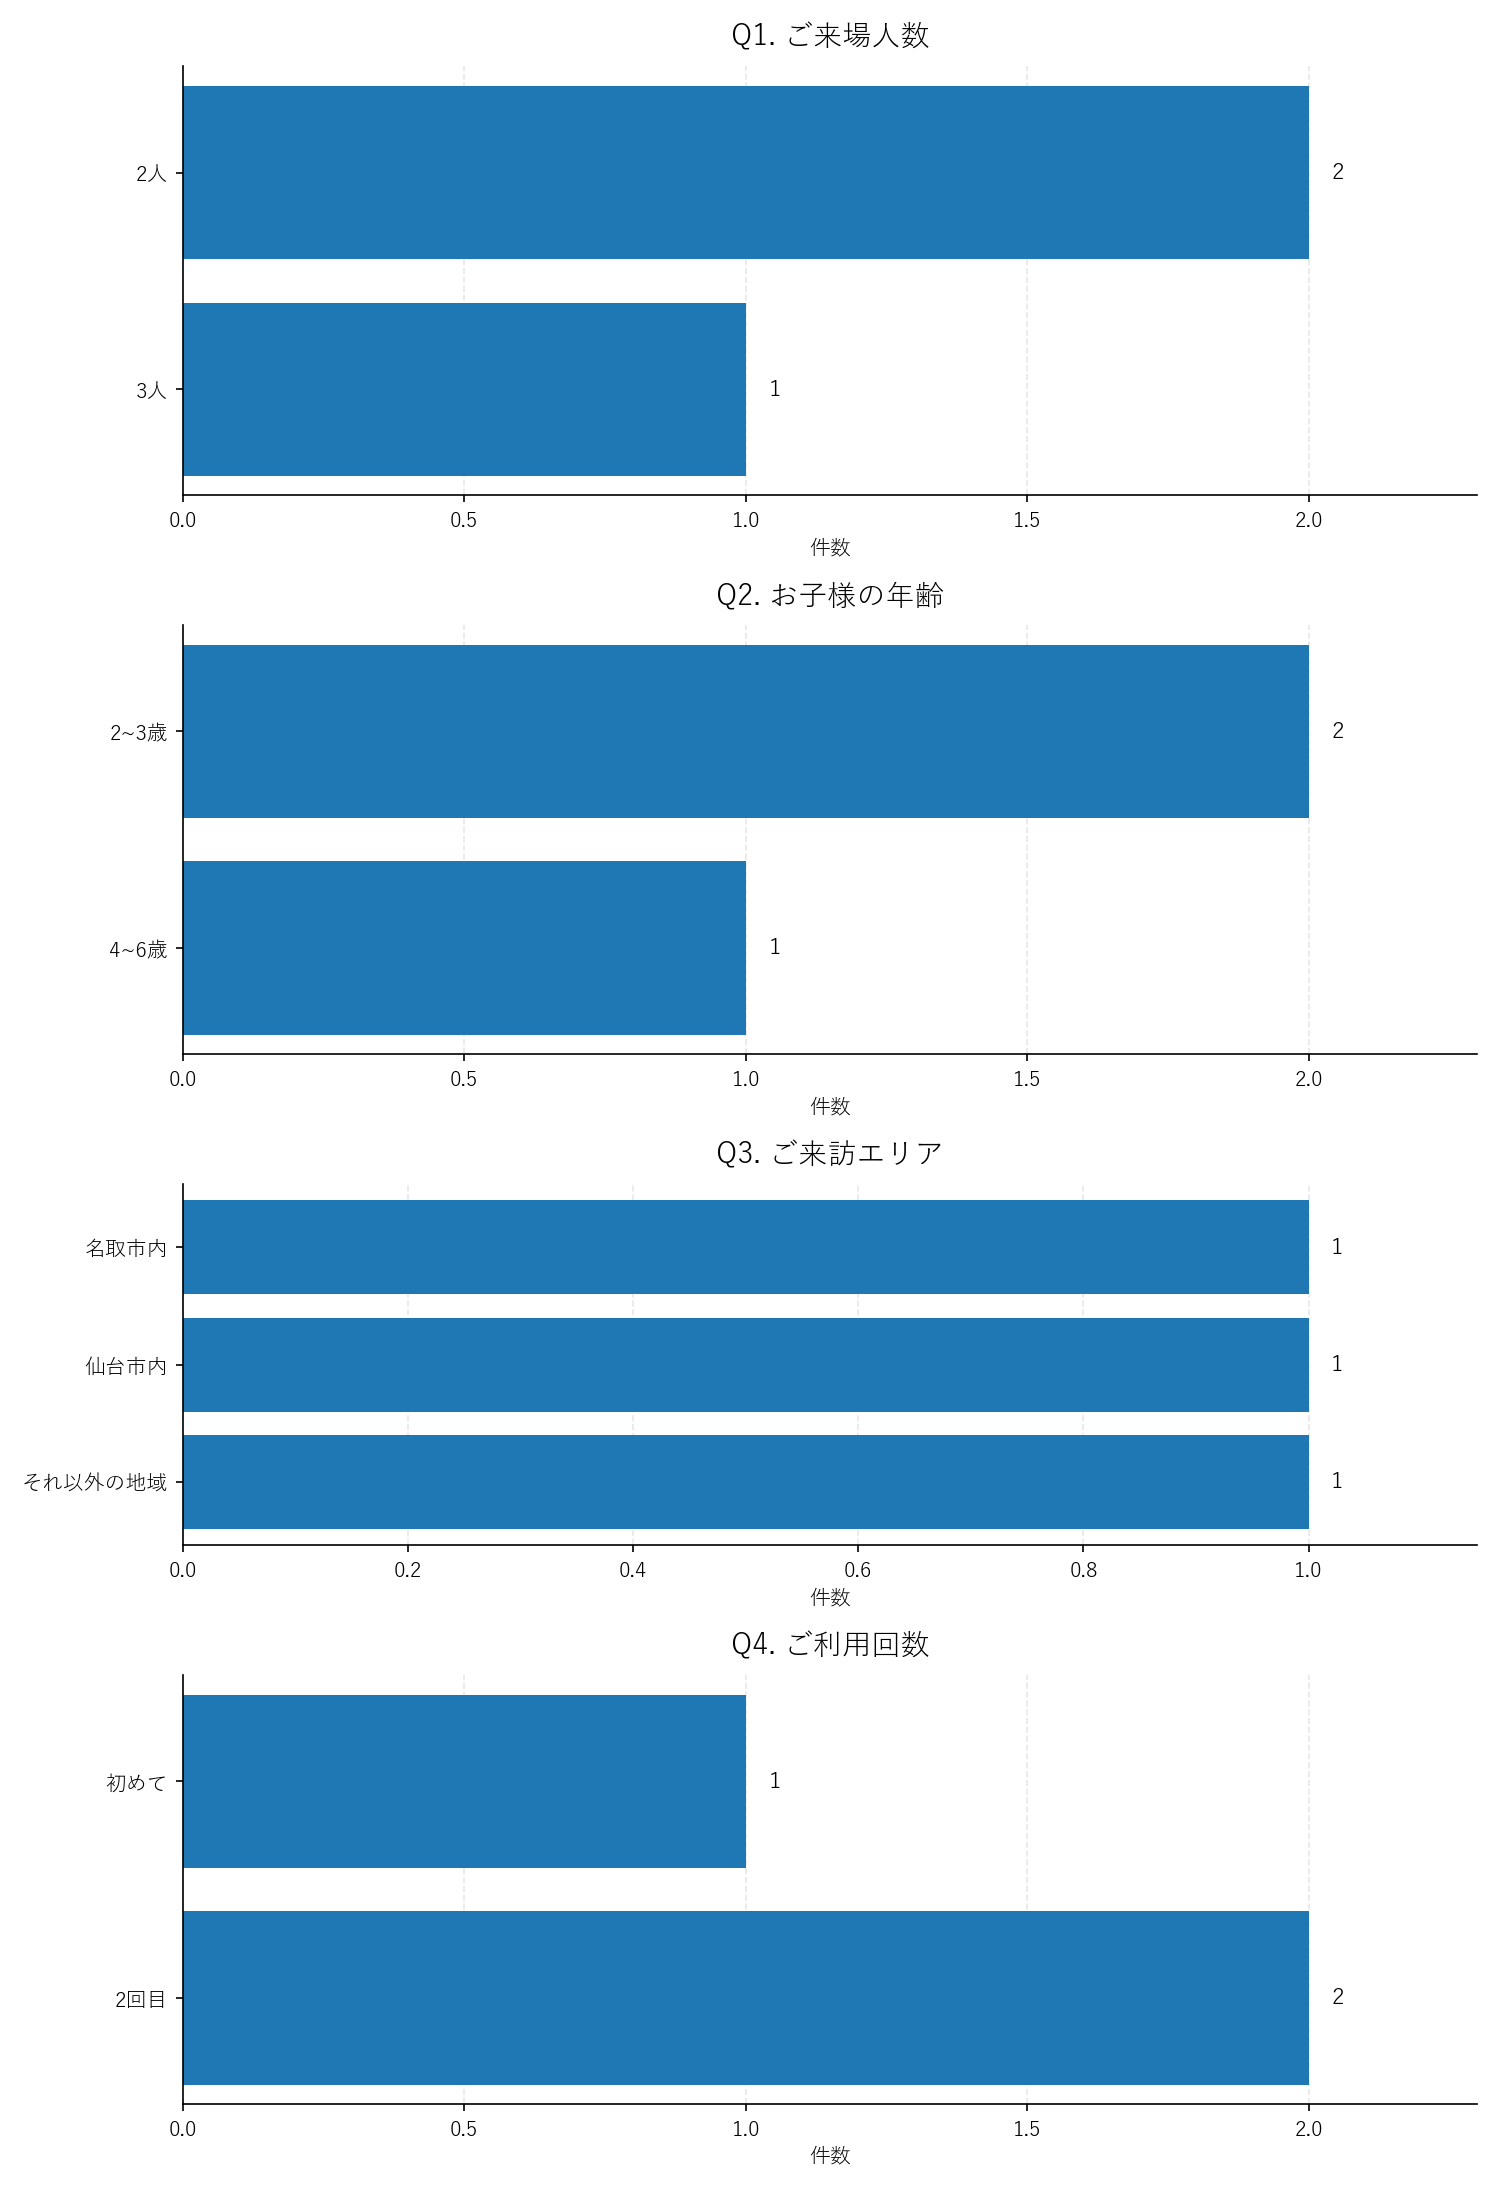
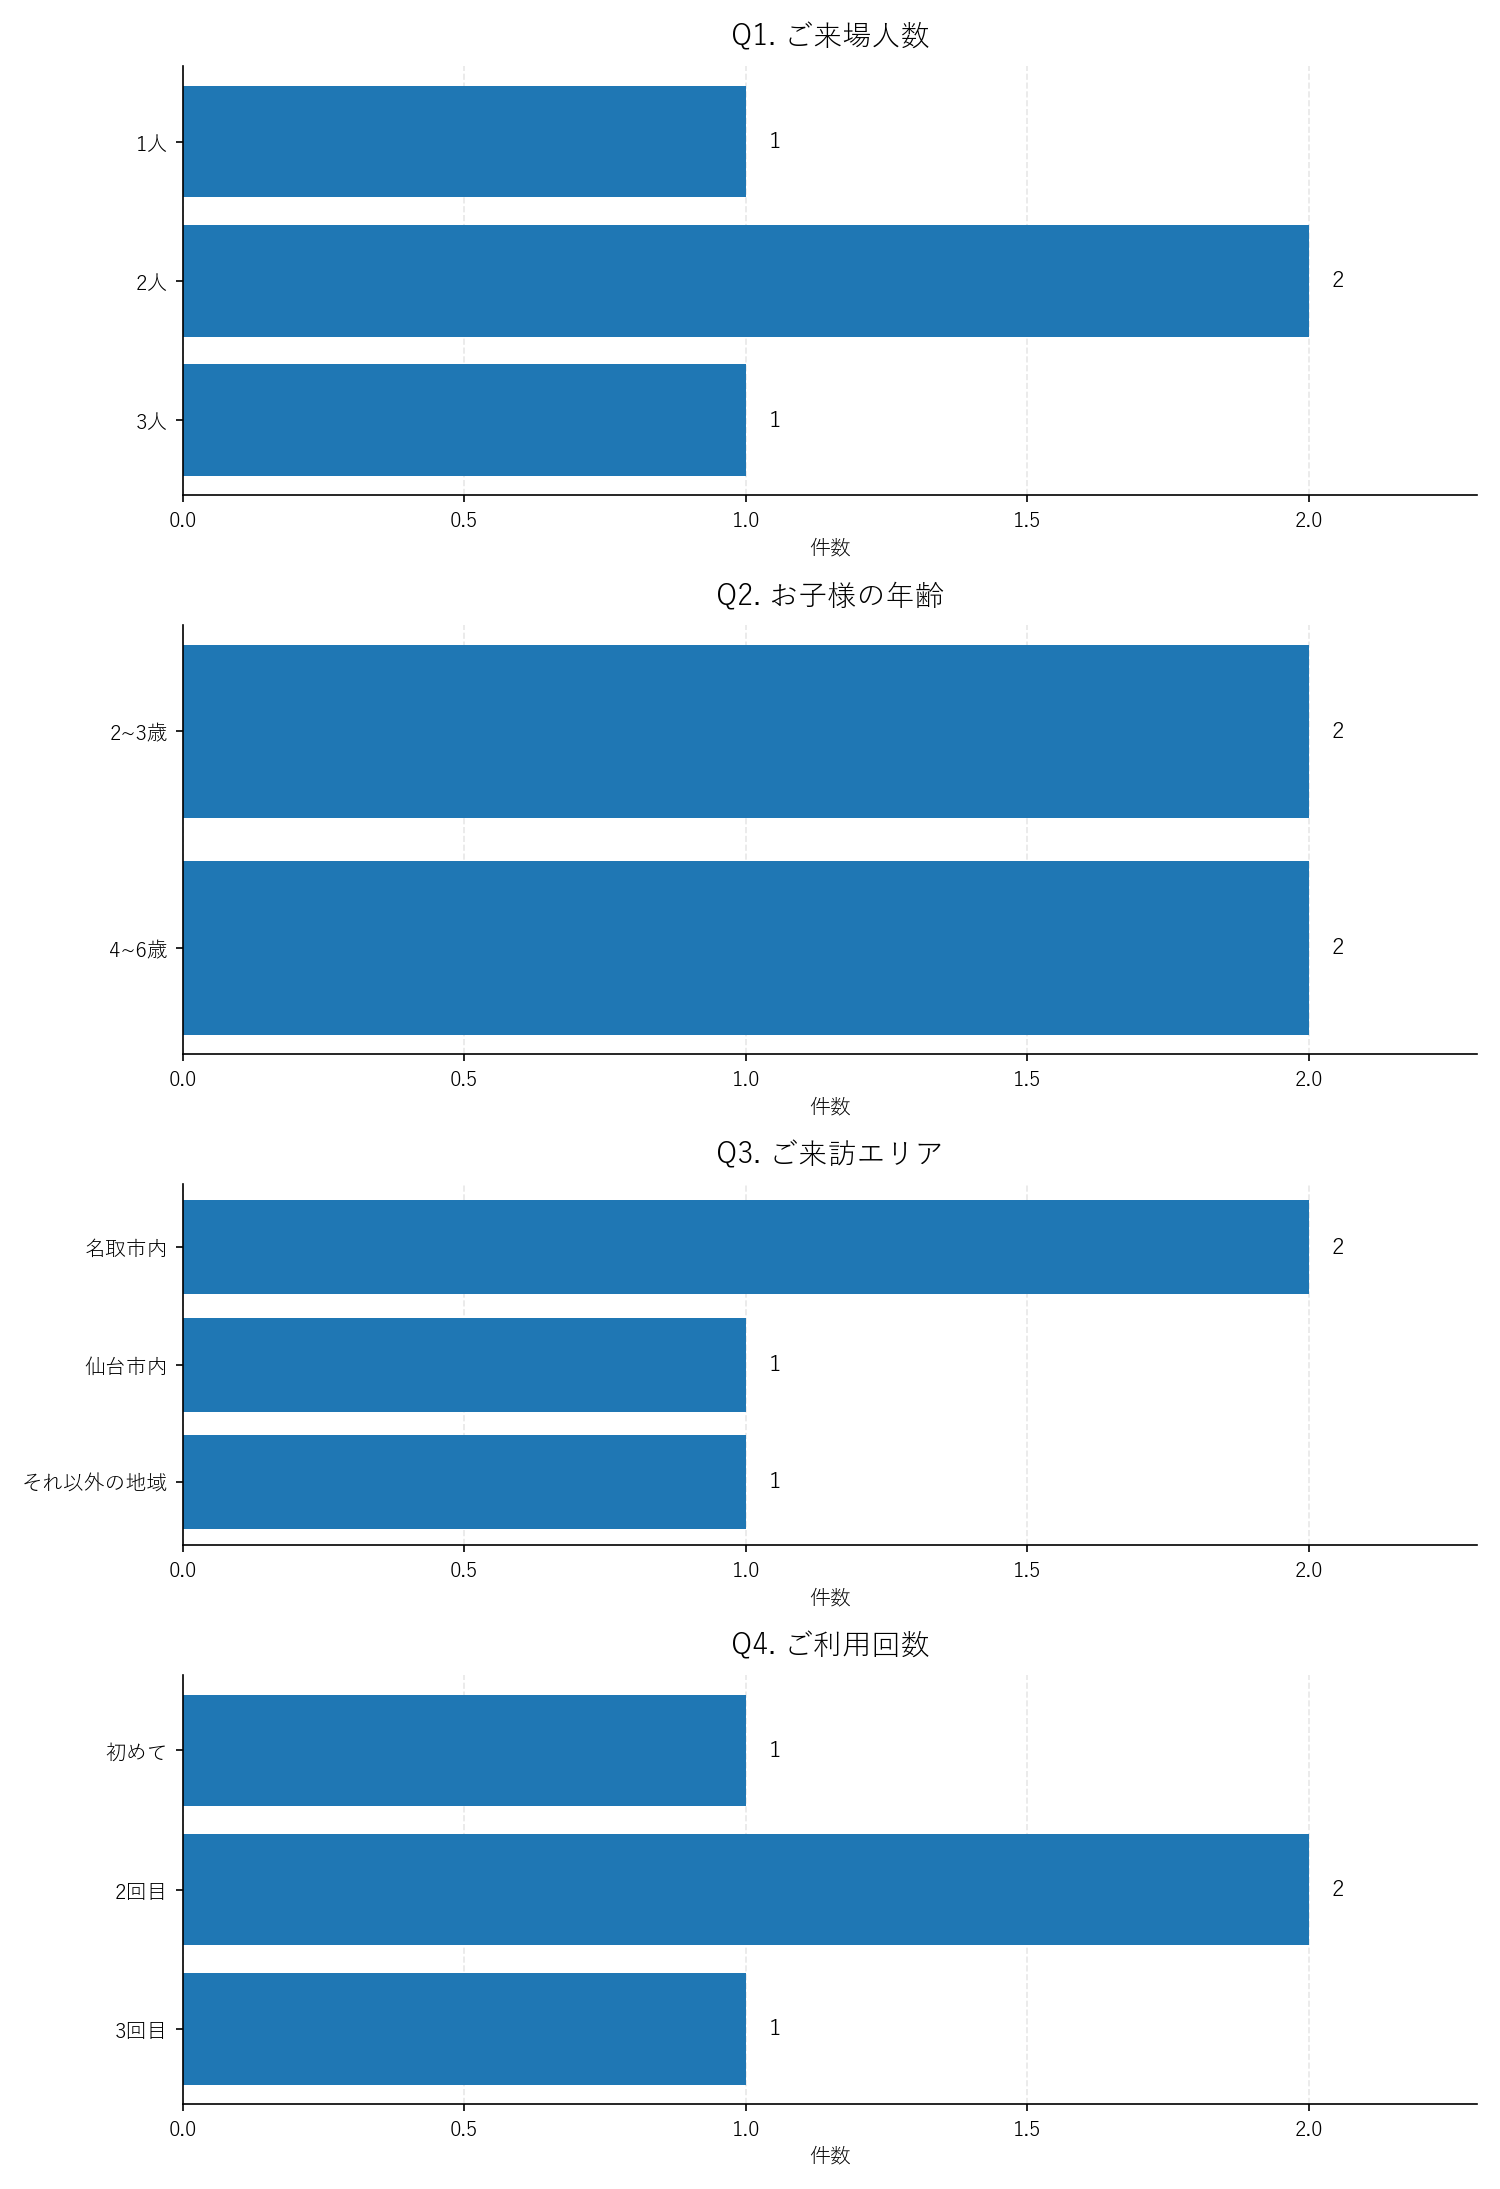
軽微修正

diff --git a/scripts/fetch_responses.py b/scripts/fetch_responses.py
@@ -1,0 +1,73 @@
+"""Supabase API から survey_responses を取得して CSV に保存するスクリプト。
+
+前提:
+- .env.local に SUPABASE_URL / SUPABASE_SERVICE_ROLE_KEY が設定されていること
+- service_role key は管理者権限。フロントや Git に絶対含めないこと
+"""
+
+from __future__ import annotations
+
+import json
+import os
+from pathlib import Path
+
+import pandas as pd
+from dotenv import load_dotenv
+
+ENV_FILE = Path(".env.local")
+OUTPUT_CSV = Path("data/survey_responses.csv")
+TABLE_NAME = "survey_responses"
+
+
+def main() -> None:
+    if not ENV_FILE.exists():
+        raise SystemExit(
+            f".env.local が見つかりません: {ENV_FILE}\n"
+            "SUPABASE_URL と SUPABASE_SERVICE_ROLE_KEY を設定したファイルを配置してください"
+        )
+
+    load_dotenv(ENV_FILE)
+    url = os.environ.get("SUPABASE_URL")
+    key = os.environ.get("SUPABASE_SERVICE_ROLE_KEY")
+
+    if not url:
+        raise SystemExit("SUPABASE_URL が .env.local に設定されていません")
+    if not key:
+        raise SystemExit("SUPABASE_SERVICE_ROLE_KEY が .env.local に設定されていません")
+
+    try:
+        from supabase import create_client
+    except ImportError as exc:
+        raise SystemExit(
+            "supabase パッケージが未インストールです。\n"
+            "  .\\.venv\\Scripts\\python.exe -m pip install -r requirements.txt"
+        ) from exc
+
+    client = create_client(url, key)
+
+    try:
+        response = client.table(TABLE_NAME).select("*").execute()
+    except Exception as exc:
+        raise SystemExit(f"Supabase API取得に失敗しました: {exc}") from exc
+
+    rows = response.data or []
+    print(f"取得件数: {len(rows)}")
+
+    if rows:
+        df = pd.DataFrame(rows)
+        if "answers" in df.columns:
+            df["answers"] = df["answers"].apply(
+                lambda v: json.dumps(v, ensure_ascii=False)
+                if isinstance(v, (dict, list))
+                else v
+            )
+    else:
+        df = pd.DataFrame(columns=["id", "created_at", "answers"])
+
+    OUTPUT_CSV.parent.mkdir(parents=True, exist_ok=True)
+    df.to_csv(OUTPUT_CSV, index=False, encoding="utf-8-sig")
+    print(f"saved: {OUTPUT_CSV}")
+
+
+if __name__ == "__main__":
+    main()

diff --git a/scripts/update_reports.py b/scripts/update_reports.py
@@ -1,0 +1,15 @@
+"""回答データ取得から集計グラフ生成までをまとめて実行するスクリプト。"""
+
+from __future__ import annotations
+
+from analyze_responses import main as analyze_responses
+from fetch_responses import main as fetch_responses
+
+
+def main() -> None:
+    fetch_responses()
+    analyze_responses()
+
+
+if __name__ == "__main__":
+    main()

diff --git a/scripts/analyze_responses.py b/scripts/analyze_responses.py
@@ -17,7 +17,7 @@ import matplotlib.pyplot as plt
 import pandas as pd
 
 
-INPUT_CSV = Path("data/survey_responses_rows.csv")
+INPUT_CSV = Path("data/survey_responses.csv")
 OUTPUT_DIR = Path("outputs")
 SUMMARY_CSV = OUTPUT_DIR / "summary.csv"
 CHART_PNG = OUTPUT_DIR / "chart.png"

diff --git a/OPERATIONS.md b/OPERATIONS.md
@@ -1,0 +1,117 @@
+# 集計運用手順
+
+このドキュメントは、オフィスPCでアンケート結果を更新するための手順です。
+
+## 日常運用
+
+プロジェクトフォルダでターミナルを開き、以下を実行する。
+
+### Windows / PowerShell
+
+```powershell
+.\.venv\Scripts\python.exe scripts\update_reports.py
+```
+
+### Mac / Terminal
+
+```bash
+./.venv/bin/python scripts/update_reports.py
+```
+
+このコマンドは内部で以下を順に実行する。
+
+1. Supabase APIから回答を取得し、`data/survey_responses.csv` に保存
+2. `outputs/summary.csv` と `outputs/chart.png` を生成
+
+## 出力
+
+- `data/survey_responses.csv`: Supabase APIから取得した回答データ
+- `outputs/summary.csv`: 質問ID・回答ごとの件数
+- `outputs/chart.png`: 全質問を1枚にまとめた横棒グラフ
+
+## 初回セットアップ
+
+### 1. Python仮想環境を作成
+
+Windows:
+
+```powershell
+python -m venv .venv
+```
+
+Mac:
+
+```bash
+python3 -m venv .venv
+```
+
+### 2. 依存ライブラリをインストール
+
+Windows:
+
+```powershell
+.\.venv\Scripts\python.exe -m pip install -r requirements.txt
+```
+
+Mac:
+
+```bash
+./.venv/bin/python -m pip install -r requirements.txt
+```
+
+### 3. `.env.local` を作成
+
+`.env.example` を参考に `.env.local` を作成する。
+
+```env
+VITE_SUPABASE_URL=https://xxxxxxxxxxxxx.supabase.co
+VITE_SUPABASE_ANON_KEY=ey...
+SUPABASE_URL=https://xxxxxxxxxxxxx.supabase.co
+SUPABASE_SERVICE_ROLE_KEY=ey...
+```
+
+注意:
+
+- `VITE_SUPABASE_ANON_KEY` はフロントエンド用
+- `SUPABASE_SERVICE_ROLE_KEY` はローカルPython集計用
+- `SUPABASE_SERVICE_ROLE_KEY` は管理者権限のキーなので、GitHubにpushしない
+- `.env.local` は `.gitignore` に登録済み
+
+## トラブルシューティング
+
+### `.env.local が見つかりません`
+
+プロジェクトルートに `.env.local` を配置する。
+
+### `SUPABASE_URL が .env.local に設定されていません`
+
+`.env.local` に `SUPABASE_URL` と `SUPABASE_SERVICE_ROLE_KEY` があるか確認する。
+
+### `Supabase API取得に失敗しました`
+
+以下を確認する。
+
+- インターネット接続
+- `SUPABASE_URL`
+- `SUPABASE_SERVICE_ROLE_KEY`
+- Supabase側の `survey_responses` テーブル
+
+### `ModuleNotFoundError`
+
+依存ライブラリが未インストール。以下を再実行する。
+
+Windows:
+
+```powershell
+.\.venv\Scripts\python.exe -m pip install -r requirements.txt
+```
+
+Mac:
+
+```bash
+./.venv/bin/python -m pip install -r requirements.txt
+```
+
+### グラフが古い
+
+`outputs/chart.png` を開き直す。画像ビューアがキャッシュしている場合は一度閉じて再度開く。

diff --git a/README.md b/README.md
@@ -71,21 +71,39 @@ npm run dev
 
 ## 集計・グラフ化（オフィスPC）
 
-Supabase Table Editor からCSVをエクスポートし、Pythonで集計・棒グラフ化する。
+ローカルPCのPythonスクリプトから Supabase API で直接取得し、集計・棒グラフ化する。
 
-1. Supabase ダッシュボード → Table Editor → `survey_responses` → Export to CSV
-2. 取得したCSVを `data/survey_responses_rows.csv` として配置（Supabase Exportのデフォルト名のまま）
-3. 依存インストール
+### .env.local に追加する環境変数
+
+```
+SUPABASE_URL=https://xxxxxxxxxxxxx.supabase.co
+SUPABASE_SERVICE_ROLE_KEY=ey...（Supabase ダッシュボード → Project Settings → API → "service_role" のキー）
+```
+
+⚠️ `SUPABASE_SERVICE_ROLE_KEY` は管理者権限のキー。**フロントエンドや Git に絶対に含めない**こと。`.gitignore` に `.env.local` が登録済みであることを確認。
+
+### 手順
+
+1. 依存インストール（初回のみ）
    ```bash
-   pip install -r requirements.txt
+   .\.venv\Scripts\python.exe -m pip install -r requirements.txt
    ```
-4. スクリプト実行
+2. API から取得して CSV 保存
    ```bash
-   python scripts/analyze_responses.py
+   .\.venv\Scripts\python.exe scripts\fetch_responses.py
    ```
-5. 出力を確認
+   → `data/survey_responses.csv` に保存される
+3. 集計＋グラフ生成
+   ```bash
+   .\.venv\Scripts\python.exe scripts\analyze_responses.py
+   ```
+4. 出力を確認
    - `outputs/summary.csv`: 質問ID・回答ごとの件数
    - `outputs/chart.png`: 全質問を1枚にまとめた横棒グラフ
+
+### 旧手順（手動 CSV エクスポート）
+
+`fetch_responses.py` が使えない環境では、Supabase Table Editor からCSVを手動エクスポートし、`data/survey_responses.csv` として配置すれば `analyze_responses.py` で同様に集計可能。
 
 ## 実装制約
 